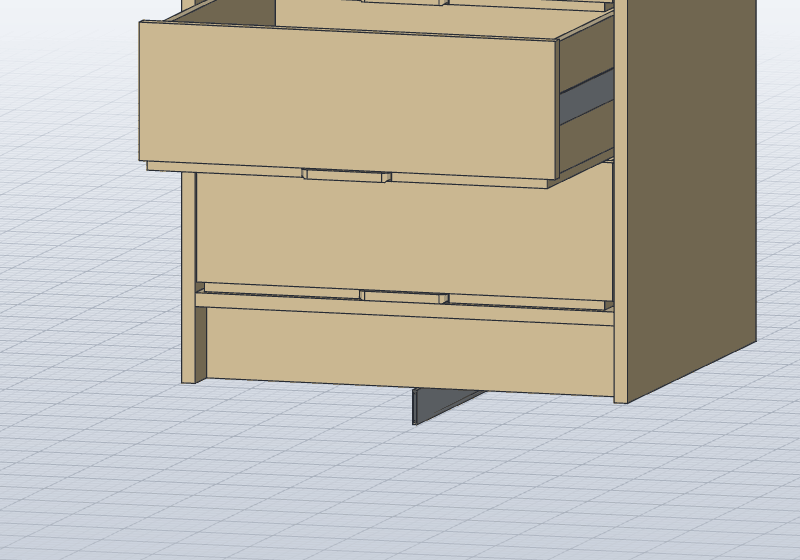
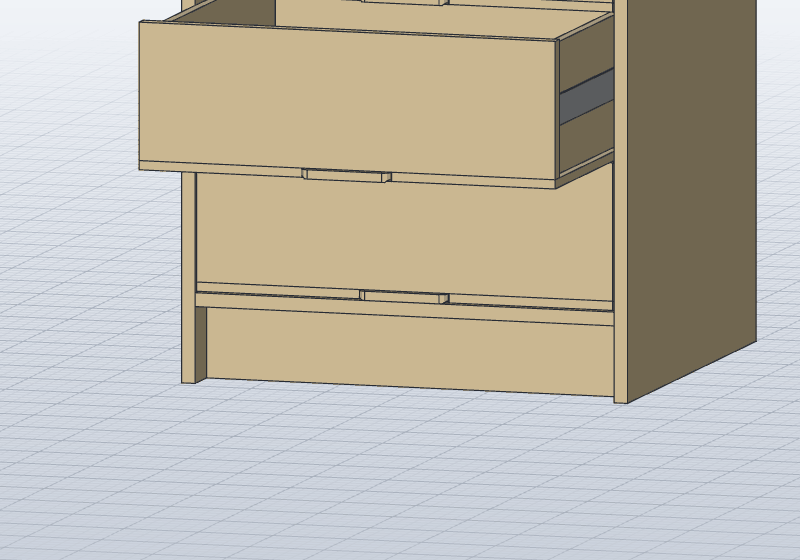
Bottom tab: drawer bottom as wide as the front
The tab drawer's bottom reaches out under the slides to the front's edges, unless the lowest box side would leave the slide members over it (then as wide as the box).

Closes #284

diff --git a/tests/test_fronts.py b/tests/test_fronts.py
@@ -634,7 +634,7 @@ def test_bottom_tab(approval):
     # Drawer handles Bottom tab (#181, #247): inset fronts (Fronts is Overlay here), each drawer's
     # bottom (12 mm) its lowest part, where a plain inset front's lower edge is, the front and
     # the box standing on it: front and bottom as high as the plain front. The bottom runs from
-    # the box's back to 12 mm past the front's face (#256), Tab width (150 mm) wide there and
+    # the box's back to 12 mm past the front's face (#256), as wide as the front (#284), Tab width (150 mm) wide there and
     # rounded, with a cove underneath: a 6 mm radius 3 mm deep, its axis along the tab 6 mm in
     # front of the face. The front is whole (no notch), and the cut list's bottom is the long one.
     steps = [plugin(approval, "cabinet", {"drawers": 2, "handles": "tab"}), MEASURE, plugin(approval, "cutlist"),
@@ -651,6 +651,11 @@ def test_bottom_tab(approval):
         assert bottom[2] == plain[2] and face[5] == plain[5] and face[2] == bottom[5], (bottom, face, plain)
         assert left[2] == bottom[5] and bottom[4] == back[4], (bottom, left, back)
         assert round(face[1] - bottom[1], 3) == 12 and round(bottom[5] - bottom[2], 3) == 12, (bottom, face)
+        # as wide as the front (#284), out under the slides: no slide model overlaps it
+        assert (bottom[0], bottom[3]) == (face[0], face[3]), (bottom, face)
+        slides = {n: b for n, b in boxes(results[1], models=True).items() if n.startswith("HW slide") and "(" in n}
+        assert slides and not [n for n, s in slides.items()
+                               if all(s[i] < bottom[i + 3] - 0.01 and bottom[i] < s[i + 3] - 0.01 for i in range(3))], slides
         cove = [f["cylinder"] for f in results[3]["faces"] if abs((f.get("cylinder") or {}).get("radius", 0) - 6) < 0.01]
         assert cove and all(abs(abs(c["axis"][0]) - 1) < 1e-6 for c in cove), cove
         assert all(abs(c["origin"][2] - (bottom[2] - 3)) < 0.01 and abs(c["origin"][1] - (face[1] - 6)) < 0.01 for c in cove), cove
@@ -658,9 +663,9 @@ def test_bottom_tab(approval):
         assert abs(volume(results[1], name) - whole) < 1, name  # no notch, no scoop
         assert cylinders(results[1], "Cabinet Drawer 1 Bottom") >= 2, front
         parts = results[2]["result"]["parts"]
-        lengths = [round(max(p["length"], p["width"]), 1) for p in parts
-                   if "Drawer 1 Bottom" in " ".join(p["parts"])]
-        assert round(bottom[4] - bottom[1], 1) in lengths, (bottom, lengths)
+        sizes = [sorted([round(p["length"], 1), round(p["width"], 1)]) for p in parts
+                 if "Drawer 1 Bottom" in " ".join(p["parts"])]
+        assert sorted([round(bottom[3] - bottom[0], 1), round(bottom[4] - bottom[1], 1)]) in sizes, (bottom, sizes)
 
 def test_shaker_fronts(approval):
     # A shaker door, 596 x 716, hinged left: 60 mm stiles full height (the left one keeps the

diff --git a/src/cabinet/tests.rs b/src/cabinet/tests.rs
@@ -1898,11 +1898,14 @@ fn a_bottom_tab_sticks_out_under_the_front() {
             was["height"].as_str().unwrap()
         )
     );
-    // the bottom from the front's face to the box's back, as wide as the box, the box's
-    // boards standing on it
+    // the bottom from the front's face to the box's back, as wide as the front (#284), the
+    // box's boards standing on it
     assert_eq!(bottom["corner"][1], front["corner"][1]);
+    assert_eq!(
+        (&bottom["corner"][0], &bottom["length"]),
+        (&front["corner"][0], &front["length"])
+    );
     let left = named(&commands, "Cabinet Drawer 1 Left");
-    assert_eq!(bottom["corner"][0], left["corner"][0]);
     assert_eq!(
         left["corner"][2],
         format!(
@@ -1955,6 +1958,27 @@ fn a_bottom_tab_sticks_out_under_the_front() {
             "{p}"
         );
     }
+    // integrated, the bottom is the box front's width, which is the box's (#284)
+    let (commands, _) =
+        build(&json!({"drawers": 2, "handles": "tab", "drawer_front": "integrated"})).unwrap();
+    let (bottom, front) = (
+        named(&commands, "Cabinet Drawer 1 Bottom"),
+        named(&commands, "Cabinet Drawer 1 Box front"),
+    );
+    assert_eq!(
+        (&bottom["corner"][0], &bottom["length"]),
+        (&front["corner"][0], &front["length"])
+    );
+    // a low front with a thick bottom leaves a box side under the slides' 45 mm members: the
+    // bottom stays as wide as the box, clear of them
+    let p =
+        json!({"height": 315, "plinth": 0, "drawers": 4, "handles": "tab", "drawer_bottom": 19});
+    let (commands, _) = build(&p).unwrap();
+    let (bottom, left) = (
+        named(&commands, "Cabinet Drawer 1 Bottom"),
+        named(&commands, "Cabinet Drawer 1 Left"),
+    );
+    assert_eq!(bottom["corner"][0], left["corner"][0]);
     // not with undermount runners or strips under the bottom, nor drawers over doors on a rail
     for p in [
         json!({"drawers": 2, "handles": "tab", "slide_type": "under_full", "drawer_thickness": 15}),

diff --git a/src/cabinet/drawers.rs b/src/cabinet/drawers.rs
@@ -45,6 +45,7 @@ pub fn build(cabinet: &Cabinet) {
         t,
         drawers,
         front_h: front_mm,
+        drawer_h,
         inset,
         reveal,
         mixed,
@@ -162,6 +163,19 @@ pub fn build(cabinet: &Cabinet) {
         false => format!("({et} + {})", mm(BOX_CLEAR)),
     };
     let back_y = format!("{eback} + {box_d} - {bt}");
+    // A bottom tab's bottom reaches out under the slides to the front's edges (#284) while the
+    // lowest box side keeps their members (45 mm, at its mid-height) above it: a low front
+    // with a thick bottom keeps it as wide as the box.
+    let lowest = match drawer_h > 0.0 {
+        true => front_mm.min(drawer_h),
+        false => front_mm,
+    };
+    let lift_mm = if inset && !mixed {
+        BOX_CLEAR
+    } else {
+        t + BOX_CLEAR
+    };
+    let wide = lowest - lift_mm - box_t[1] >= hardware::MEMBERS[0].2;
     for i in 0..count {
         let drawer = format!("Drawer {}", i + 1);
         // the front's lower edge
@@ -574,13 +588,18 @@ pub fn build(cabinet: &Cabinet) {
             continue;
         }
         match tabbed {
-            // under the box and the front, which stand on it
+            // under the box and the front, which stand on it, as wide as the front (#284): out
+            // into the slide gap under the slides (`wide`), else as wide as the box
             true => {
                 let bd = format!("{box_d} + {et}");
+                let (bx, bw) = match wide {
+                    true => (&x0, &front_w),
+                    false => (&x, &box_w),
+                };
                 panel(
                     &format!("{drawer} Bottom"),
-                    [&x, efront, &z],
-                    [&box_w, &bd, &bb],
+                    [bx, efront, &z],
+                    [bw, &bd, &bb],
                 );
                 tab(&z, efront);
             }

diff --git a/docs/usage.md b/docs/usage.md
@@ -77,7 +77,7 @@ component can hold its cabinets.
 | **Drawer side height**, **Drawer back height** (Woodwork settings) | Lower drawer box sides and back: 0 (the default) keeps the sides as tall as the box and the back as tall as the sides; otherwise their height, at least 50 mm (a slide is 45 mm high). The back may be lower or taller than the sides, so low sides can have a tall back. More than a drawer's box is that box's height, for the sides and the back alike. They stand on the box's bottom edge, the slide's screw holes in the middle of the side; the box's front, or an integrated front, stays full height. A finger-jointed box takes it too: the back's corner fingers are laid out over the height it shares with the sides, and the taller board stands whole above the other. The parameters `Name_drawer_side_height` and `Name_drawer_back_height`: change them in Parameters for one cabinet; the sides never grow past the box. ![Lower drawer sides and an even lower back, the box's front full height.](images/drawer-heights.png) ![Low finger-jointed sides and a back taller than them.](images/drawer-back-taller.png) |
 | **Fronts** (Woodwork settings) | Overlay or inset. See [Fronts: overlay or inset](#fronts-overlay-or-inset). |
 | **Reveal** | The gap around and between the fronts, 0.5 to 6 mm (2 by default), always in mm, also on an inch cabinet. Overlay: also how far the fronts stop short of the carcass's outside edges. Inset: the gap all round inside the opening. On a cabinet with doors or drawers it is the design parameter `Name_reveal`: change it in Parameters and the fronts follow. |
-| **Drawer handles**, **Door handles** (Woodwork settings: Drawers and Doors; and Edit for one cabinet) | Each picks freely what the drawer fronts, or the doors (a corner cabinet's too), get; Bottom tab is for drawers only. Drills the doors and drawer fronts for a knob (one 5 mm hole) or a pull (two, 128 mm apart). Or no handle at all, the front is the grip: **Grip edge** bevels the back of the grip edge at 45 degrees (the panel thickness less 6 mm along both faces, 12 mm on an 18 mm front), so fingers reach behind the front; **Finger groove** routes a rounded groove 20 mm high and 10 mm deep along the front face, its middle 25 mm from the grip edge. Both run the front's whole width and follow a resize. They go on the edge Handle position gives: a drawer front's top (Top or Auto) or bottom (Bottom), a door's top or bottom (Auto: the top on a floor unit, the bottom on a wall unit); on a corner cabinet's folding pair on the door that folds. A grip edge's front stops **Grip gap** (Woodwork settings, 20 mm by default, 5 to 50; the parameter `Name_grip_gap`) short of its grip edge, the bevel on the new edge, so a finger fits in the gap and behind the bevel; a drawer's box is that much lower too. A grip edge with Handle position Middle is refused (a finger groove there goes on the top edge). **Bottom tab** (drawers only) makes each drawer's bottom panel the pull, and the cabinet's fronts inset whatever **Fronts** says: the bottom is the drawer's lowest part, at the front's lower edge, and the front and the box stand on it, so the front can be glued and nailed onto it. The front is shorter by the bottom's thickness, so front and bottom together keep the front's height and the reveal. The bottom runs on past the front's face by 12 mm, **Tab width** wide there (Woodwork settings, Drawer settings: 120 mm by default, never wider than the box), its two front corners rounded, with a shallow cove along its underside (a 6 mm radius, 3 mm deep, or half a thinner bottom) for a finger to hook from below; no notch in the front, no groove. (An overlay front's lower edge laps the carcass bottom, where the bottom cannot go: hence inset.) It works with a separate or an integrated front, on side-mount slides or dado runners; undermount slides, strip runners and drawers over doors are refused with it. The tab is as thick as **Drawer bottom thickness**: 12 mm or more takes the pull well. The cut list gives the bottom with its tab, that much longer. No handles go in the cut list's hardware. |
+| **Drawer handles**, **Door handles** (Woodwork settings: Drawers and Doors; and Edit for one cabinet) | Each picks freely what the drawer fronts, or the doors (a corner cabinet's too), get; Bottom tab is for drawers only. Drills the doors and drawer fronts for a knob (one 5 mm hole) or a pull (two, 128 mm apart). Or no handle at all, the front is the grip: **Grip edge** bevels the back of the grip edge at 45 degrees (the panel thickness less 6 mm along both faces, 12 mm on an 18 mm front), so fingers reach behind the front; **Finger groove** routes a rounded groove 20 mm high and 10 mm deep along the front face, its middle 25 mm from the grip edge. Both run the front's whole width and follow a resize. They go on the edge Handle position gives: a drawer front's top (Top or Auto) or bottom (Bottom), a door's top or bottom (Auto: the top on a floor unit, the bottom on a wall unit); on a corner cabinet's folding pair on the door that folds. A grip edge's front stops **Grip gap** (Woodwork settings, 20 mm by default, 5 to 50; the parameter `Name_grip_gap`) short of its grip edge, the bevel on the new edge, so a finger fits in the gap and behind the bevel; a drawer's box is that much lower too. A grip edge with Handle position Middle is refused (a finger groove there goes on the top edge). **Bottom tab** (drawers only) makes each drawer's bottom panel the pull, and the cabinet's fronts inset whatever **Fronts** says: the bottom is the drawer's lowest part, at the front's lower edge, as wide as the front so their edges line up (out under the slides, below their mounting; a very low front with a thick bottom keeps it as wide as the box, clear of the slides), and the front and the box stand on it, so the front can be glued and nailed onto it. The front is shorter by the bottom's thickness, so front and bottom together keep the front's height and the reveal. The bottom runs on past the front's face by 12 mm, **Tab width** wide there (Woodwork settings, Drawer settings: 120 mm by default, never wider than the box), its two front corners rounded, with a shallow cove along its underside (a 6 mm radius, 3 mm deep, or half a thinner bottom) for a finger to hook from below; no notch in the front, no groove. (An overlay front's lower edge laps the carcass bottom, where the bottom cannot go: hence inset.) It works with a separate or an integrated front, on side-mount slides or dado runners; undermount slides, strip runners and drawers over doors are refused with it. The tab is as thick as **Drawer bottom thickness**: 12 mm or more takes the pull well. The cut list gives the bottom with its tab, that much longer. No handles go in the cut list's hardware. |
 | **Handle position** (Woodwork settings) | Near the top, in the middle or near the bottom of a door. On Auto: near the top on a floor unit, near the bottom on a wall unit. On a drawer front the handle lies across: in the middle on Auto, or 40 mm from the front's top or bottom edge. With a grip edge or finger groove: the door's top edge (Top, Middle, or Auto on a floor unit) or its bottom edge (Bottom, or Auto on a wall unit). |
 
 ![Grip edges on the doors (left) and finger grooves on the drawers (right): no handles.](images/grip-edges.png)

diff --git a/CLAUDE.md b/CLAUDE.md
@@ -772,7 +772,7 @@ place, ground), so a builder only returns its commands and `Kit`'s summary.
   `tab` (#181, drawers only; doors and a sink base's false front get nothing; #247): the
   cabinet's fronts are inset (`input`: `fronts` overlay is taken as inset, and Panel's overlay
   check skips a tab cabinet), the drawer's `Bottom` its lowest part at the front's lower edge,
-  under the box (from the front's face to the box's back, as wide as the box) with the front
+  under the box (from the front's face to the box's back, as wide as the front, #284: out under the slides, unless the lowest box side is under the slide members' 45 mm, `wide` in `drawers`, then as wide as the box; on runners as before) with the front
   (`bb` shorter) and the box's boards standing on it (`bz = z + bb`, as on runners); the box clears
   only above (`lift`). `tab` joins `Bottom tab 1/2` (boxes) and `corner 1/2` (cylinders,
   `TAB_R`) to it, `min(<Prefix>_tab_width, box_w)` wide (`tab_width`, Woodwork settings' Drawers,
